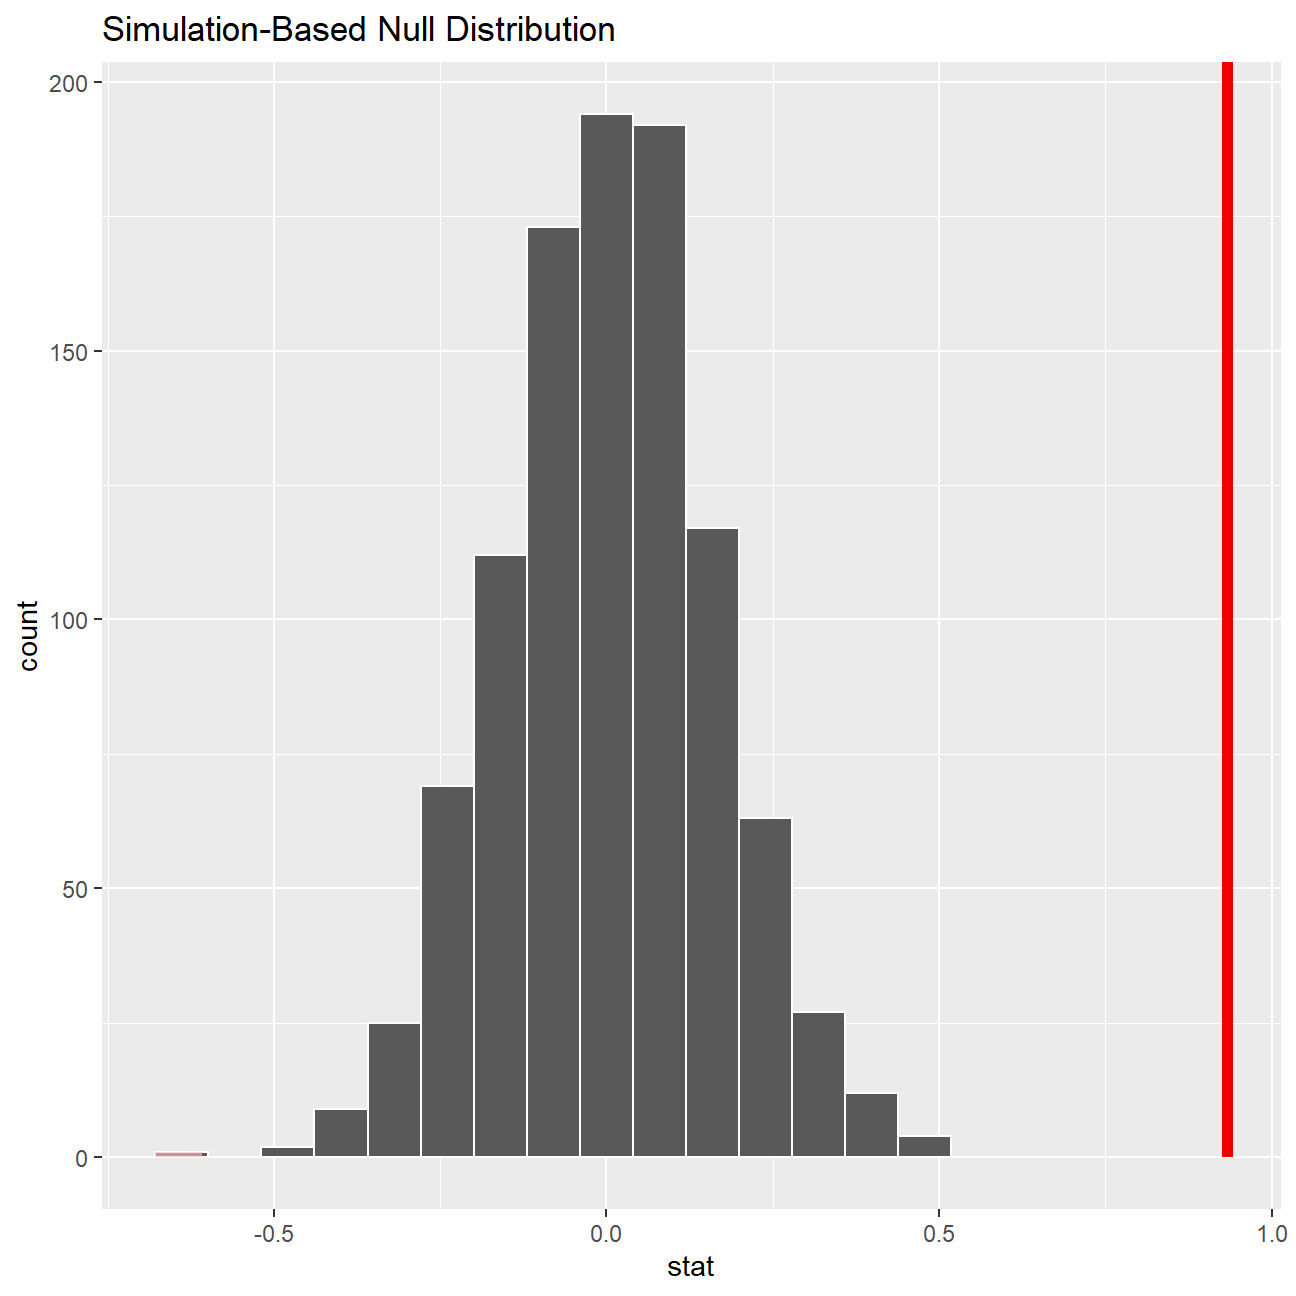
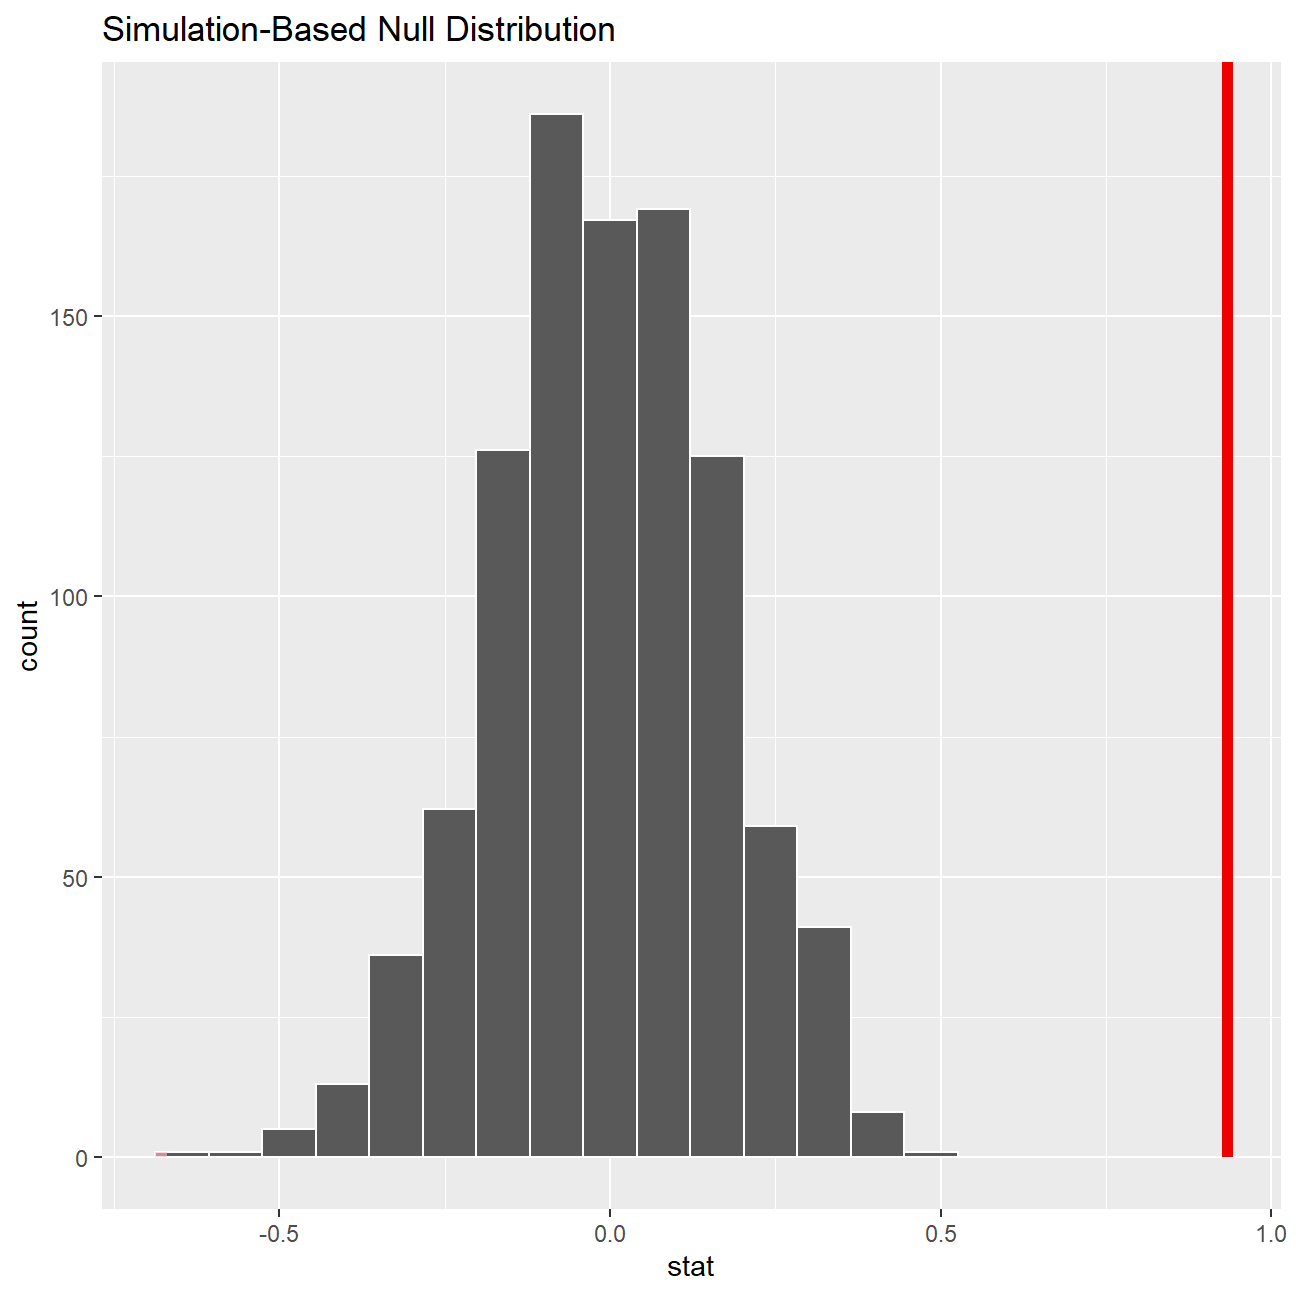
pj3

diff --git a/content/projects/project3/index.html b/content/projects/project3/index.html
@@ -18,16 +18,12 @@ categories:
 <p>This project was done to research whether the IMDB rating for blockbuster movies were influenced by the director. Before looking at any kind of data, a null hypothesis and alternative hypothesis were set up as follows:</p>
 <div id="null-hypothesis" class="section level3">
 <h3>Null Hypothesis</h3>
-<ul>
-<li>There is no difference in the mean IMDB-rating for movies produced by Steven Spielberg or Tim Burton.</li>
-</ul>
+<p>There is no difference in the mean IMDB-rating for movies produced by Steven Spielberg or Tim Burton.</p>
 </div>
 <div id="alternative-hypothesis" class="section level3">
 <h3>Alternative Hypothesis</h3>
-<ul>
-<li>There is a significant difference between these mean IMDB-ratings.</li>
-</ul>
-<p>First, let us load the data into R:</p>
+<p>There is a significant difference between these mean IMDB-ratings.</p>
+<p>We will look at a subset sample of movies, taken from the <a href="https://www.kaggle.com/carolzhangdc/imdb-5000-movie-dataset">Kaggle IMDB 5000 movie dataset</a></p>
 <pre class="r"><code>movies &lt;- read_csv(here::here(&quot;data&quot;, &quot;movies.csv&quot;))
 glimpse(movies)</code></pre>
 <pre><code>## Rows: 2,961
@@ -43,6 +39,243 @@ glimpse(movies)</code></pre>
 ## $ votes               &lt;dbl&gt; 886204, 793059, 418214, 995415, 1676169, 534658...
 ## $ reviews             &lt;dbl&gt; 3777, 2843, 1934, 2425, 5312, 3917, 1752, 1752,...
 ## $ rating              &lt;dbl&gt; 7.9, 7.7, 7.0, 8.1, 9.0, 6.5, 8.7, 7.5, 8.5, 7....</code></pre>
+<pre class="r"><code>skim(movies)</code></pre>
+<table>
+<caption>(#tab:load_movies)Data summary</caption>
+<tbody>
+<tr class="odd">
+<td align="left">Name</td>
+<td align="left">movies</td>
+</tr>
+<tr class="even">
+<td align="left">Number of rows</td>
+<td align="left">2961</td>
+</tr>
+<tr class="odd">
+<td align="left">Number of columns</td>
+<td align="left">11</td>
+</tr>
+<tr class="even">
+<td align="left">_______________________</td>
+<td align="left"></td>
+</tr>
+<tr class="odd">
+<td align="left">Column type frequency:</td>
+<td align="left"></td>
+</tr>
+<tr class="even">
+<td align="left">character</td>
+<td align="left">3</td>
+</tr>
+<tr class="odd">
+<td align="left">numeric</td>
+<td align="left">8</td>
+</tr>
+<tr class="even">
+<td align="left">________________________</td>
+<td align="left"></td>
+</tr>
+<tr class="odd">
+<td align="left">Group variables</td>
+<td align="left">None</td>
+</tr>
+</tbody>
+</table>
+<p><strong>Variable type: character</strong></p>
+<table>
+<thead>
+<tr class="header">
+<th align="left">skim_variable</th>
+<th align="right">n_missing</th>
+<th align="right">complete_rate</th>
+<th align="right">min</th>
+<th align="right">max</th>
+<th align="right">empty</th>
+<th align="right">n_unique</th>
+<th align="right">whitespace</th>
+</tr>
+</thead>
+<tbody>
+<tr class="odd">
+<td align="left">title</td>
+<td align="right">0</td>
+<td align="right">1</td>
+<td align="right">1</td>
+<td align="right">83</td>
+<td align="right">0</td>
+<td align="right">2907</td>
+<td align="right">0</td>
+</tr>
+<tr class="even">
+<td align="left">genre</td>
+<td align="right">0</td>
+<td align="right">1</td>
+<td align="right">5</td>
+<td align="right">11</td>
+<td align="right">0</td>
+<td align="right">17</td>
+<td align="right">0</td>
+</tr>
+<tr class="odd">
+<td align="left">director</td>
+<td align="right">0</td>
+<td align="right">1</td>
+<td align="right">3</td>
+<td align="right">32</td>
+<td align="right">0</td>
+<td align="right">1366</td>
+<td align="right">0</td>
+</tr>
+</tbody>
+</table>
+<p><strong>Variable type: numeric</strong></p>
+<table>
+<colgroup>
+<col width="13%" />
+<col width="6%" />
+<col width="9%" />
+<col width="6%" />
+<col width="6%" />
+<col width="4%" />
+<col width="6%" />
+<col width="6%" />
+<col width="6%" />
+<col width="6%" />
+<col width="28%" />
+</colgroup>
+<thead>
+<tr class="header">
+<th align="left">skim_variable</th>
+<th align="right">n_missing</th>
+<th align="right">complete_rate</th>
+<th align="right">mean</th>
+<th align="right">sd</th>
+<th align="right">p0</th>
+<th align="right">p25</th>
+<th align="right">p50</th>
+<th align="right">p75</th>
+<th align="right">p100</th>
+<th align="left">hist</th>
+</tr>
+</thead>
+<tbody>
+<tr class="odd">
+<td align="left">year</td>
+<td align="right">0</td>
+<td align="right">1</td>
+<td align="right">2.00e+03</td>
+<td align="right">9.95e+00</td>
+<td align="right">1920.0</td>
+<td align="right">2.00e+03</td>
+<td align="right">2.00e+03</td>
+<td align="right">2.01e+03</td>
+<td align="right">2.02e+03</td>
+<td align="left">▁▁▁▂▇</td>
+</tr>
+<tr class="even">
+<td align="left">duration</td>
+<td align="right">0</td>
+<td align="right">1</td>
+<td align="right">1.10e+02</td>
+<td align="right">2.22e+01</td>
+<td align="right">37.0</td>
+<td align="right">9.50e+01</td>
+<td align="right">1.06e+02</td>
+<td align="right">1.19e+02</td>
+<td align="right">3.30e+02</td>
+<td align="left">▃▇▁▁▁</td>
+</tr>
+<tr class="odd">
+<td align="left">gross</td>
+<td align="right">0</td>
+<td align="right">1</td>
+<td align="right">5.81e+07</td>
+<td align="right">7.25e+07</td>
+<td align="right">703.0</td>
+<td align="right">1.23e+07</td>
+<td align="right">3.47e+07</td>
+<td align="right">7.56e+07</td>
+<td align="right">7.61e+08</td>
+<td align="left">▇▁▁▁▁</td>
+</tr>
+<tr class="even">
+<td align="left">budget</td>
+<td align="right">0</td>
+<td align="right">1</td>
+<td align="right">4.06e+07</td>
+<td align="right">4.37e+07</td>
+<td align="right">218.0</td>
+<td align="right">1.10e+07</td>
+<td align="right">2.60e+07</td>
+<td align="right">5.50e+07</td>
+<td align="right">3.00e+08</td>
+<td align="left">▇▂▁▁▁</td>
+</tr>
+<tr class="odd">
+<td align="left">cast_facebook_likes</td>
+<td align="right">0</td>
+<td align="right">1</td>
+<td align="right">1.24e+04</td>
+<td align="right">2.05e+04</td>
+<td align="right">0.0</td>
+<td align="right">2.24e+03</td>
+<td align="right">4.60e+03</td>
+<td align="right">1.69e+04</td>
+<td align="right">6.57e+05</td>
+<td align="left">▇▁▁▁▁</td>
+</tr>
+<tr class="even">
+<td align="left">votes</td>
+<td align="right">0</td>
+<td align="right">1</td>
+<td align="right">1.09e+05</td>
+<td align="right">1.58e+05</td>
+<td align="right">5.0</td>
+<td align="right">1.99e+04</td>
+<td align="right">5.57e+04</td>
+<td align="right">1.33e+05</td>
+<td align="right">1.69e+06</td>
+<td align="left">▇▁▁▁▁</td>
+</tr>
+<tr class="odd">
+<td align="left">reviews</td>
+<td align="right">0</td>
+<td align="right">1</td>
+<td align="right">5.03e+02</td>
+<td align="right">4.94e+02</td>
+<td align="right">2.0</td>
+<td align="right">1.99e+02</td>
+<td align="right">3.64e+02</td>
+<td align="right">6.31e+02</td>
+<td align="right">5.31e+03</td>
+<td align="left">▇▁▁▁▁</td>
+</tr>
+<tr class="even">
+<td align="left">rating</td>
+<td align="right">0</td>
+<td align="right">1</td>
+<td align="right">6.39e+00</td>
+<td align="right">1.05e+00</td>
+<td align="right">1.6</td>
+<td align="right">5.80e+00</td>
+<td align="right">6.50e+00</td>
+<td align="right">7.10e+00</td>
+<td align="right">9.30e+00</td>
+<td align="left">▁▁▆▇▁</td>
+</tr>
+</tbody>
+</table>
+<p>Besides the obvious variables of <code>title</code>, <code>genre</code>, <code>director</code>, <code>year</code>, and <code>duration</code>, the rest of the variables are as follows:</p>
+<ul>
+<li><code>gross</code> : The gross earnings in the US box office, not adjusted for inflation</li>
+<li><code>budget</code>: The movie’s budget</li>
+<li><code>cast_facebook_likes</code>: the number of facebook likes cast memebrs received</li>
+<li><code>votes</code>: the number of people who voted for (or rated) the movie in IMDB</li>
+<li><code>reviews</code>: the number of reviews for that movie</li>
+<li><code>rating</code>: IMDB average rating</li>
+</ul>
+<p>Are there any missing values (NAs)? Are all entries distinct or are there duplicate entries?</p>
+<p><strong>No missing but many duplicates across categories. There are 2961 rows and only 2907 unique movie titles, so it can be inferred that some movies show more than 1 times with different genres.</strong></p>
 <p>Then I manipulate the data set so that only Steven Spielburg and Tim Burton are evaluated.</p>
 <pre class="r"><code>movies_v1 &lt;- movies %&gt;% filter(director == &quot;Steven Spielberg&quot; | director == &quot;Tim Burton&quot;) %&gt;% select(director | rating)
 
@@ -119,18 +352,18 @@ obs_diff</code></pre>
   calculate(stat = &quot;diff in means&quot;, order = c(TRUE, FALSE))
 null_dist</code></pre>
 <pre><code>## # A tibble: 1,000 x 2
-##    replicate      stat
-##        &lt;int&gt;     &lt;dbl&gt;
-##  1         1  0.0213  
-##  2         2  0.102   
-##  3         3 -0.213   
-##  4         4 -0.0281  
-##  5         5  0.0551  
-##  6         6 -0.277   
-##  7         7  0.0577  
-##  8         8 -0.150   
-##  9         9  0.000524
-## 10        10 -0.137   
+##    replicate    stat
+##        &lt;int&gt;   &lt;dbl&gt;
+##  1         1  0.0187
+##  2         2 -0.0488
+##  3         3  0.253 
+##  4         4 -0.228 
+##  5         5  0.273 
+##  6         6 -0.161 
+##  7         7 -0.0878
+##  8         8 -0.0359
+##  9         9 -0.197 
+## 10        10 -0.0125
 ## # ... with 990 more rows</code></pre>
 <pre class="r"><code>ggplot(data = null_dist, aes(x = stat)) +
   geom_histogram()</code></pre>
